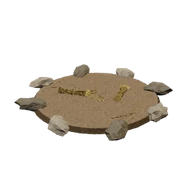
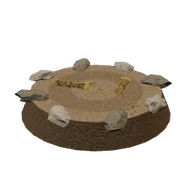
Avance: la era, explanada con talud en ladera, las piedras hincadas en el borde y el corro pisado; la prueba de lo que se enseña, con la paja a la vista; la era en el móvil antes de su panel
Claude-Session: https://claude.ai/code/session_011XgxtmWuWTNgAiuvHbzUJQ

Changed region(s): [[0.0625, 0.2812, 0.9062, 0.8125]]

diff --git a/src/juego/estaciones.js b/src/juego/estaciones.js
@@ -340,13 +340,15 @@ function hoyoBarro(id) {
 // campo, bordeado por sus 8 piedras hincadas, con briznas de paja sueltas de lo ya trillado. Las gavillas que se le
 // dejan, tumbadas encima (DEPOSITO_SITIOS.era).
 export const ERA = 1.45;
-const TIERRA_ERA = 0x847564, TIERRA_ERA_OSC = 0x5e5244;
+const TIERRA_ERA = 0x847564, TIERRA_ERA_OSC = 0x5e5244, TIERRA_ERA_PISADA = 0x766856;
 function era(id) {
   const L = new Lote({ rangoSuelo: 0.25, variacion: 0.05 });
-  L.add(new THREE.CylinderGeometry(ERA, ERA + 0.06, 0.1, 30), TIERRA_ERA_OSC, 0, -0.01, 0, null, { tex: 'piedra', sinSuelo: true }); // el canto
+  // el canto, hondo: en ladera, la era es una explanada; cuesta arriba se mete en la tierra y cuesta abajo deja ver su talud
+  L.add(new THREE.CylinderGeometry(ERA, ERA + 0.22, 0.5, 30), TIERRA_ERA_OSC, 0, -0.21, 0, null, { tex: 'piedra', sinSuelo: true });
   L.add(new THREE.CircleGeometry(ERA - 0.01, 30), TIERRA_ERA, 0, 0.041, 0, { x: -Math.PI / 2 }, { tex: 'piedra', sinSuelo: true });  // lo apisonado
+  L.add(new THREE.RingGeometry(0.55, 1.05, 30), TIERRA_ERA_PISADA, 0, 0.043, 0, { x: -Math.PI / 2 }, { tex: 'piedra', sinSuelo: true }); // el corro pisado al trillar
   for (let i = 0; i < 8; i++) {
-    const a = i * Math.PI / 4 + (az(id, i) - 0.5) * 0.25, r = ERA + 0.1;
+    const a = i * Math.PI / 4 + (az(id, i) - 0.5) * 0.25, r = ERA - 0.04;   // (hincadas en el borde)
     L.add(piedraIrregular(0.24, 1, id + 'e' + i, 0.24), i % 2 ? 'piedraOsc' : 'piedra', Math.cos(a) * r, 0.05, Math.sin(a) * r, { y: a + Math.PI / 2 + (az(id, i + 9) - 0.5) * 0.6 }, { escala: new THREE.Vector3(1.35, 0.55, 0.85), plano: true });
   }
   for (let i = 0; i < 46; i++) { // briznas de paja sueltas

diff --git a/pruebas/prueba_fabricar_navegador.py b/pruebas/prueba_fabricar_navegador.py
@@ -356,6 +356,19 @@ try:
         comprobar('y lo depositado en ella, puesto encima', esperar(B, f"(() => {{ const o = {K}.escena.getObjectByName('estacion_piedra_tallar'); return !!o && !!o.getObjectByName('deposito_silex'); }})()", 10000))
         B.wait_for_timeout(2500)
         captura(B, f'{SALIDA}/movil_piedra_tallar.png')
+        print('La era, en el móvil')
+        B.evaluate(f"{ERA}({K}, -3.5, 1)")
+        B.evaluate(f"""(() => {{ const e = {K}.fabCliente.estaciones['era:vista']; Object.assign({K}.pj, {{ x: e.x + 2.0, z: e.z + 2.2, rot: 2.3 }}); {K}.cam.yaw = 0.6; {K}.cam.dist = 4.2; {K}.cam.pitch = 0.42; }})()""")
+        comprobar('en el móvil, también la era', esperar(B, f"!!{K}.escena.getObjectByName('estacion_era')", 8000))
+        B.wait_for_timeout(2500)
+        captura(B, f'{SALIDA}/movil_era.png')
+        B.evaluate(f"""(() => {{ const e = {K}.fabCliente.estaciones['era:vista']; Object.assign({K}.pj, {{ x: e.x + 1.2, z: e.z + 0.8 }}); }})()""")
+        B.evaluate(f"{K}.panelFabricar.abrirEstacion('era:vista')"); B.wait_for_timeout(1000)
+        comprobar('y su panel, sin salirse de lado', B.evaluate("!!document.querySelector('#panelFabricar .fab-pest[data-pestana=\"trillar\"]') && document.getElementById('panelFabricar').scrollWidth <= document.getElementById('panelFabricar').clientWidth + 1 && document.documentElement.scrollWidth <= innerWidth + 1"))
+        captura(B, f'{SALIDA}/movil_panel_era.png')
+        B.evaluate(f"{K}.panelFabricar.cerrar()"); B.wait_for_timeout(500)
+        B.evaluate(f"(() => {{ Object.assign({K}.pj, {{ x: {pos['x']} - 0.6, z: {pos['z']} + 1.7, rot: 2.8 }}); {K}.cam.yaw = 0.35; {K}.cam.dist = 3.4; {K}.cam.pitch = 0.75; }})()"); B.wait_for_timeout(1500)
+
         B.tap('#btnFabricar'); B.wait_for_timeout(600)
         r = B.evaluate("(() => { const r = document.getElementById('panelFabricar').getBoundingClientRect(); return [r.width, r.height]; })()")
         comprobar('su panel ocupa casi la pantalla (el tablero del menú, con su margen)', r[0] >= 360 and r[1] >= 650, str(r))
@@ -406,18 +419,6 @@ try:
         B.evaluate(f"{K}.panelFabricar.abrirEstacion('secadero:vista')"); B.wait_for_timeout(1000)
         comprobar('y su panel, sin salirse de lado (con una pestaña más)', B.evaluate("!!document.querySelector('#panelFabricar .fab-pest[data-pestana=\"secar\"]') && document.getElementById('panelFabricar').scrollWidth <= document.getElementById('panelFabricar').clientWidth + 1 && document.documentElement.scrollWidth <= innerWidth + 1"))
         captura(B, f'{SALIDA}/movil_panel_secadero.png')
-        B.evaluate(f"{K}.panelFabricar.cerrar()")
-
-        print('La era, en el móvil')
-        B.evaluate(f"{ERA}({K}, -3.5, 1)")
-        B.evaluate(f"""(() => {{ const e = {K}.fabCliente.estaciones['era:vista']; Object.assign({K}.pj, {{ x: e.x + 2.0, z: e.z + 2.2, rot: 2.3 }}); {K}.cam.yaw = 0.6; {K}.cam.dist = 4.2; {K}.cam.pitch = 0.42; }})()""")
-        comprobar('en el móvil, también la era', esperar(B, f"!!{K}.escena.getObjectByName('estacion_era')", 8000))
-        B.wait_for_timeout(2500)
-        captura(B, f'{SALIDA}/movil_era.png')
-        B.evaluate(f"""(() => {{ const e = {K}.fabCliente.estaciones['era:vista']; Object.assign({K}.pj, {{ x: e.x + 1.2, z: e.z + 0.8 }}); }})()""")
-        B.evaluate(f"{K}.panelFabricar.abrirEstacion('era:vista')"); B.wait_for_timeout(1000)
-        comprobar('y su panel, sin salirse de lado', B.evaluate("!!document.querySelector('#panelFabricar .fab-pest[data-pestana=\"trillar\"]') && document.getElementById('panelFabricar').scrollWidth <= document.getElementById('panelFabricar').clientWidth + 1 && document.documentElement.scrollWidth <= innerWidth + 1"))
-        captura(B, f'{SALIDA}/movil_panel_era.png')
         B.evaluate(f"{K}.panelFabricar.cerrar()")
 
         print('Con fibra para tres, la carta lo dice; con las manos se hace de una en una (no hay «×3»), en el servidor')
